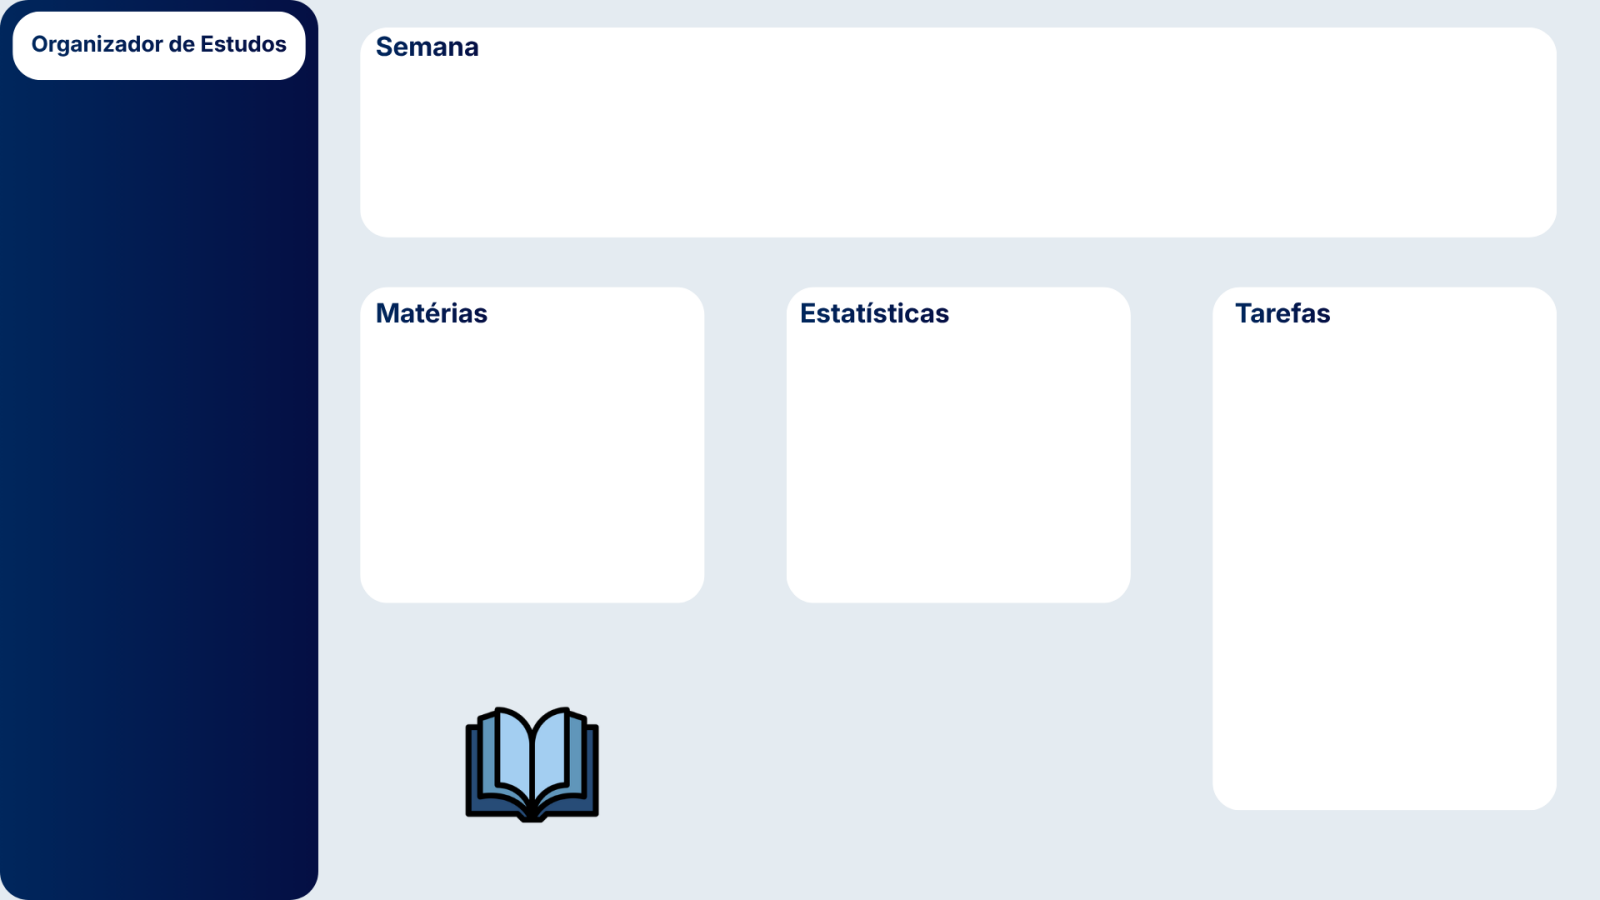
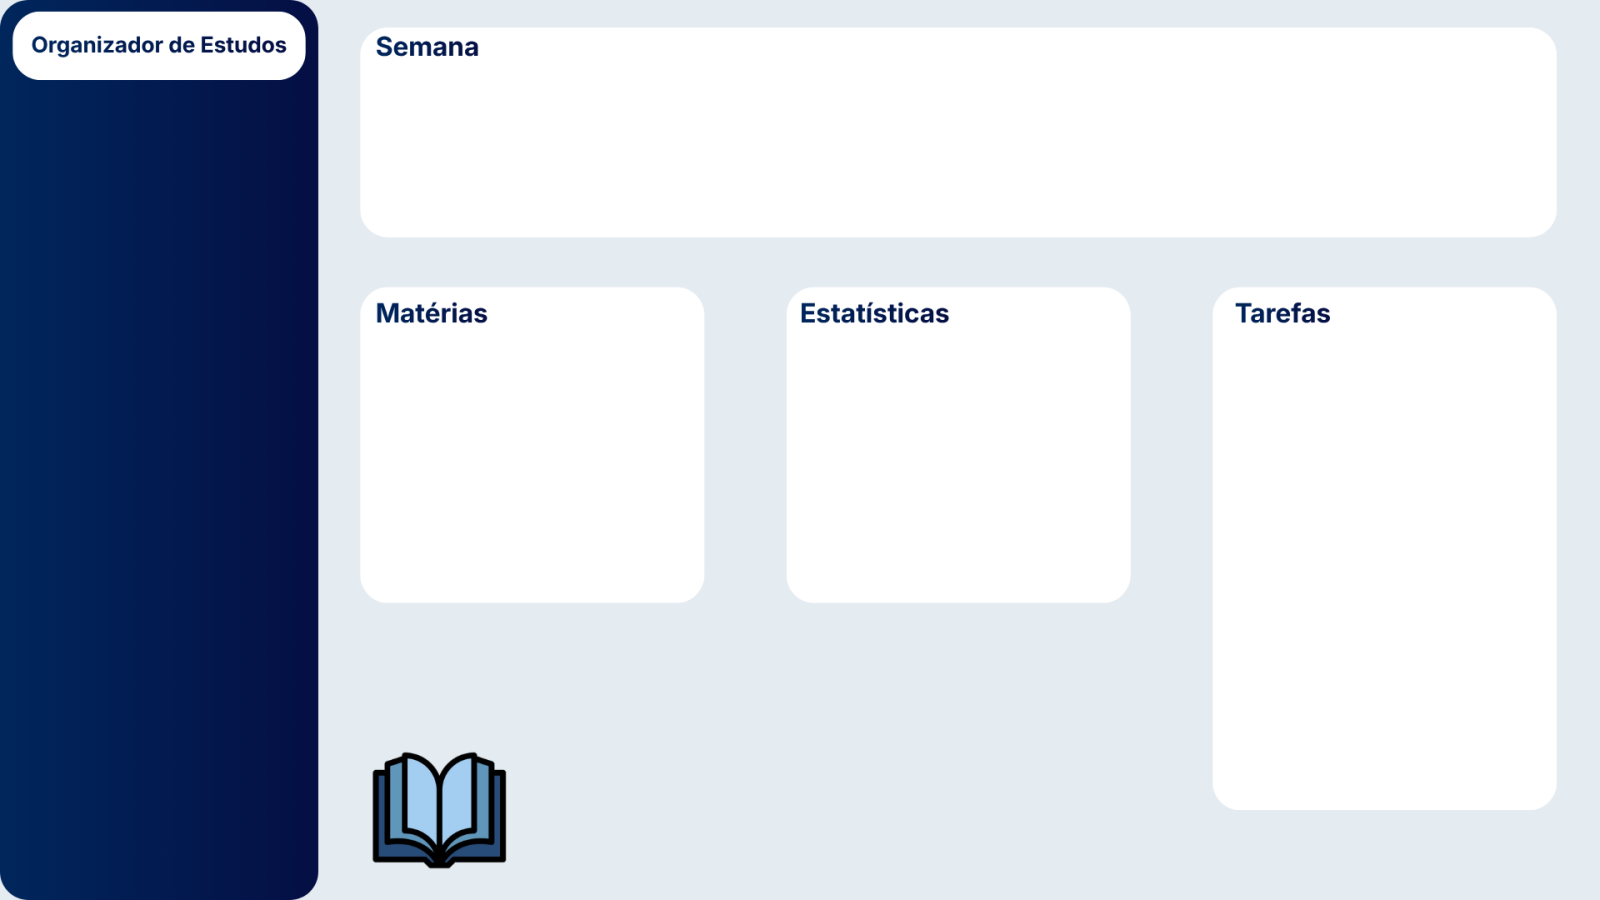
adição do plano de fundo

Changed region(s): [[0.2188, 0.7778, 0.375, 0.9644], [0.0312, 0.0311, 0.1875, 0.0622]]

diff --git a/interface.py b/interface.py
@@ -38,8 +38,9 @@ def carregar_imagens():
     global imagem_botao_historico
     global imagem_botao_estatisticas
     global imagem_botao_sair
+    global imagem_fundo
 
-
+    imagem_fundo = tk.PhotoImage(file="imagens/background.png")
     imagem_botao_materias = tk.PhotoImage(file="imagens/botao_materias.png")
     imagem_tela_inicial = tk.PhotoImage(file="imagens/tela_inicial.png")
     imagem_botao_inicio = tk.PhotoImage(file="imagens/botao_inicio.png")
@@ -54,32 +55,56 @@ janela = None
 
 
 def interface(tela,mudar_tela):
+    
+
     if tela == 1:
         fundo = tk.Label(janela,bg=cor_fundo,image=imagem_tela_inicial)
         fundo.place(x=0,y=0)
         
-        botao_inicio = tk.Button(janela,image=imagem_botao_inicio,relief="flat",highlightthickness=0,bg=cor_fundo_botao,command= lambda:mudar_tela(1))
-        botao_inicio.place(relx = 0.1, rely = 0.15,anchor="center")
+    elif tela == 2:
+        background = tk.Label(janela,image=imagem_fundo)
+        background.place(x=0,y=0)
+    elif tela ==3:
+        background = tk.Label(janela,image=imagem_fundo)
+        background.place(x=0,y=0)
+    elif tela ==4:
+        background = tk.Label(janela,image=imagem_fundo)
+        background.place(x=0,y=0)
+    elif tela ==5:
+        background = tk.Label(janela,image=imagem_fundo)
+        background.place(x=0,y=0)
+    elif tela ==6:
+        background = tk.Label(janela,image=imagem_fundo)
+        background.place(x=0,y=0)
+    elif tela ==7:
+        background = tk.Label(janela,image=imagem_fundo)
+        background.place(x=0,y=0)
 
-        botao_materias = tk.Button(janela,image=imagem_botao_materias,relief="flat",highlightthickness=0,bg=cor_fundo_botao,command= lambda:mudar_tela(2))
-        botao_materias.place(relx = 0.1, rely = 0.22,anchor="center")
 
-        botao_tarefas = tk.Button(janela,image=imagem_botao_tarefas,relief="flat",highlightthickness=0,bg=cor_fundo_botao,command= lambda:mudar_tela(3))
-        botao_tarefas.place(relx = 0.1, rely = 0.29,anchor="center")
+        
+    botao_inicio = tk.Button(janela,image=imagem_botao_inicio,relief="flat",highlightthickness=0,bg=cor_fundo_botao,command= lambda:mudar_tela(1))
+    botao_inicio.place(relx = 0.1, rely = 0.15,anchor="center")
 
-        botao_planejamento=tk.Button(janela,image=imagem_botao_planejamento,relief="flat",highlightthickness=0,bg=cor_fundo_botao,command= lambda:mudar_tela(4))
-        botao_planejamento.place(relx = 0.1, rely = 0.36,anchor="center")
+    botao_materias = tk.Button(janela,image=imagem_botao_materias,relief="flat",highlightthickness=0,bg=cor_fundo_botao,command= lambda:mudar_tela(2))
+    botao_materias.place(relx = 0.1, rely = 0.22,anchor="center")
 
-        botao_cronometro=tk.Button(janela,image=imagem_botao_cronometro,relief="flat",highlightthickness=0,bg=cor_fundo_botao,command= lambda:mudar_tela(5))
-        botao_cronometro.place(relx = 0.1, rely = 0.43,anchor="center")
+    botao_tarefas = tk.Button(janela,image=imagem_botao_tarefas,relief="flat",highlightthickness=0,bg=cor_fundo_botao,command= lambda:mudar_tela(3))
+    botao_tarefas.place(relx = 0.1, rely = 0.29,anchor="center")
 
-        botao_historico=tk.Button(janela,image=imagem_botao_historico,relief="flat",highlightthickness=0,bg=cor_fundo_botao,command= lambda:mudar_tela(6))
-        botao_historico.place(relx = 0.1, rely = 0.50,anchor="center")
+    botao_planejamento=tk.Button(janela,image=imagem_botao_planejamento,relief="flat",highlightthickness=0,bg=cor_fundo_botao,command= lambda:mudar_tela(4))
+    botao_planejamento.place(relx = 0.1, rely = 0.36,anchor="center")
 
-        botao_estatisticas=tk.Button(janela,image=imagem_botao_estatisticas,relief="flat",highlightthickness=0,bg=cor_fundo_botao,command= lambda:mudar_tela(7))
-        botao_estatisticas.place(relx = 0.1, rely = 0.57,anchor="center")
+    botao_cronometro=tk.Button(janela,image=imagem_botao_cronometro,relief="flat",highlightthickness=0,bg=cor_fundo_botao,command= lambda:mudar_tela(5))
+    botao_cronometro.place(relx = 0.1, rely = 0.43,anchor="center")
 
-        botao_sair=tk.Button(janela,image=imagem_botao_sair,relief="flat",highlightthickness=0,bg=cor_fundo_botao,command= lambda:mudar_tela(-1))
-        botao_sair.place(relx = 0.1, rely = 0.9,anchor="center")
+    botao_historico=tk.Button(janela,image=imagem_botao_historico,relief="flat",highlightthickness=0,bg=cor_fundo_botao,command= lambda:mudar_tela(6))
+    botao_historico.place(relx = 0.1, rely = 0.50,anchor="center")
+
+    botao_estatisticas=tk.Button(janela,image=imagem_botao_estatisticas,relief="flat",highlightthickness=0,bg=cor_fundo_botao,command= lambda:mudar_tela(7))
+    botao_estatisticas.place(relx = 0.1, rely = 0.57,anchor="center")
+
+    botao_sair=tk.Button(janela,image=imagem_botao_sair,relief="flat",highlightthickness=0,bg=cor_fundo_botao,command= lambda:mudar_tela(-1))
+    botao_sair.place(relx = 0.1, rely = 0.9,anchor="center")
+    
 
         
